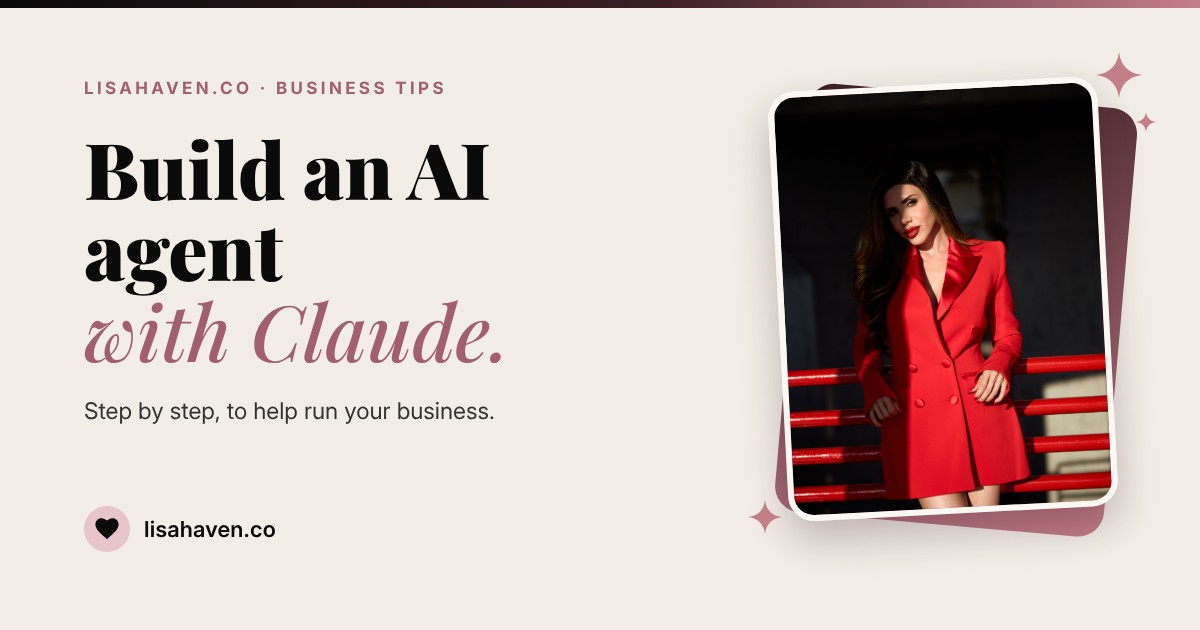
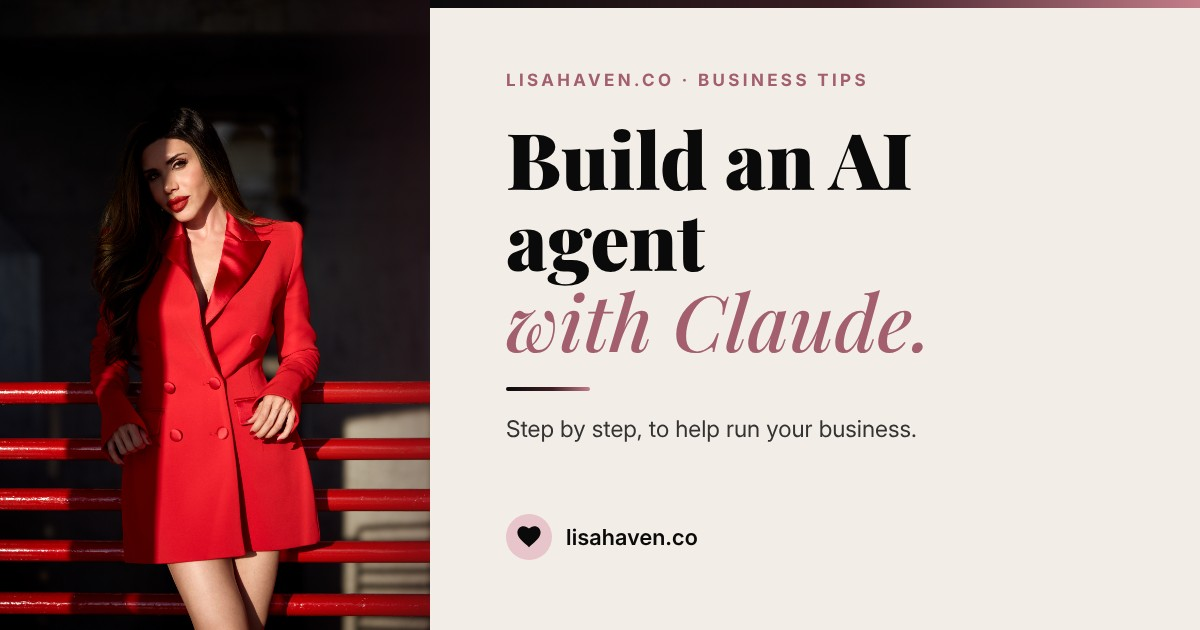
Share cards: photo panel left, text right
Claude-Session: https://claude.ai/code/session_01W1Bq6CJjowp62NKPwwQUNW

diff --git a/templates/share.html b/templates/share.html
@@ -10,31 +10,27 @@
 body{background:var(--cream)}
 #card{width:1200px;height:630px;position:relative;overflow:hidden;background:var(--cream)}
 .ribbon{position:absolute;top:0;left:0;right:0;height:8px;background:linear-gradient(90deg,#0A0A0A,#3D1E25 55%,#C47E8A)}
-.left{position:absolute;left:84px;top:78px;width:620px;height:474px;display:flex;flex-direction:column}
+.photo{position:absolute;left:0;top:0;width:430px;height:630px;overflow:hidden}
+.photo img{width:100%;height:100%;object-fit:cover;object-position:50% 25%}
+.photo:after{content:"";position:absolute;inset:0;background:linear-gradient(90deg,rgba(10,10,10,0) 70%,rgba(61,30,37,.35))}
+.ribbon{left:430px}
+.left{position:absolute;left:506px;top:70px;width:620px;height:490px;display:flex;flex-direction:column}
 .eye{font:700 17px 'IN';letter-spacing:.2em;color:var(--rd);text-transform:uppercase}
-.h{font-variant-numeric:lining-nums;margin-top:30px;font-family:'PF';font-weight:900;color:var(--ink);line-height:1.04}
+.h{font-variant-numeric:lining-nums;margin-top:28px;font-family:'PF';font-weight:900;color:var(--ink);line-height:1.04}
 .h .a{display:block;font-style:italic;font-weight:500;color:var(--rd)}
-.sub{text-wrap:balance;margin-top:24px;font:400 23px/1.4 'IN';color:#333;max-width:540px}
+.rule{width:84px;height:4px;border-radius:2px;margin-top:26px;background:linear-gradient(90deg,#0A0A0A,#3D1E25 55%,#C47E8A)}
+.sub{text-wrap:balance;margin-top:22px;font:400 23px/1.4 'IN';color:#333;max-width:560px}
 .brand{margin-top:auto;display:flex;align-items:center;gap:14px}
 .dot{width:46px;height:46px;border-radius:50%;background:var(--rl);display:flex;align-items:center;justify-content:center}
 .brand b{font:600 22px 'IN';color:var(--ink);letter-spacing:.01em}
-.photo-wrap{position:absolute;right:92px;top:84px;width:330px;height:430px}
-.back{position:absolute;inset:0;border-radius:26px;background:linear-gradient(160deg,#3D1E25,#C47E8A);transform:rotate(5deg) translate(14px,10px)}
-.photo{position:absolute;inset:0;border-radius:26px;overflow:hidden;transform:rotate(-3deg);box-shadow:0 18px 40px rgba(61,30,37,.28);border:6px solid #FBF8F4}
-.photo img{width:100%;height:100%;object-fit:cover;object-position:50% 22%}
-.spark{position:absolute;fill:var(--rose)}
 </style></head><body>
-<div id="card"><div class="ribbon"></div>
+<div id="card"><div class="photo"><img id="img"></div><div class="ribbon"></div>
 <div class="left">
   <div class="eye" id="eye"></div>
   <div class="h" id="h"><span id="t"></span><span class="a" id="a"></span></div>
-  <div class="sub" id="sub"></div>
+  <div class="rule"></div><div class="sub" id="sub"></div>
   <div class="brand"><div class="dot"><svg width="24" height="22" viewBox="0 0 24 22"><path d="M12 21.2 10.3 19.6C4.3 14.2 0.4 10.7 0.4 6.4 0.4 2.9 3.1 0.2 6.6 0.2c2 0 3.9.9 5.4 2.4C13.5 1.1 15.4.2 17.4.2c3.5 0 6.2 2.7 6.2 6.2 0 4.3-3.9 7.8-9.9 13.2z" fill="#0A0A0A"/></svg></div><b>lisahaven.co</b></div>
 </div>
-<div class="photo-wrap"><div class="back"></div><div class="photo"><img id="img"></div></div>
-<svg class="spark" style="right:58px;top:52px" width="46" height="46" viewBox="0 0 24 24"><path d="M12 0C12.8 7 17 11.2 24 12 17 12.8 12.8 17 12 24 11.2 17 7 12.8 0 12 7 11.2 11.2 7 12 0Z"/></svg>
-<svg class="spark" style="right:44px;top:112px" width="20" height="20" viewBox="0 0 24 24"><path d="M12 0C12.8 7 17 11.2 24 12 17 12.8 12.8 17 12 24 11.2 17 7 12.8 0 12 7 11.2 11.2 7 12 0Z"/></svg>
-<svg class="spark" style="right:418px;top:500px" width="34" height="34" viewBox="0 0 24 24"><path d="M12 0C12.8 7 17 11.2 24 12 17 12.8 12.8 17 12 24 11.2 17 7 12.8 0 12 7 11.2 11.2 7 12 0Z"/></svg>
 </div>
 <script>
 window.fill=async function(d){
@@ -46,9 +42,9 @@ window.fill=async function(d){
   for(;size>=44;size-=2){ h.style.fontSize=size+'px';
     const s=document.getElementById('sub').getBoundingClientRect(), b=brand.getBoundingClientRect(), hb=h.getBoundingClientRect();
     if(s.bottom+28<=b.top && hb.right<=L.getBoundingClientRect().right+1) break; }
-  const p=document.querySelector('.photo-wrap').getBoundingClientRect(), lr=L.getBoundingClientRect();
+  const lr=L.getBoundingClientRect();
   // nothing in the text column may reach the photo
   const widest=Math.max(...[...L.querySelectorAll('#t,#a,#sub,#eye')].map(e=>{const r=document.createRange();r.selectNodeContents(e);return Math.max(...[...r.getClientRects()].map(x=>x.right),0)}));
-  return size>=44 && widest < p.left-40;
+  return size>=44 && widest <= 1200-56;
 };
 </script></body></html>
